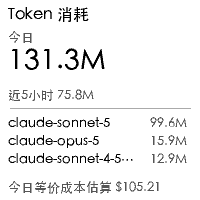
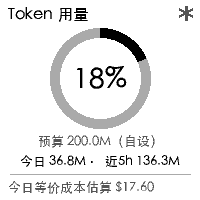
Phase 12: usage page redesign, closing out PLAN-v2.md
Settles the framing question the plan opened with: the user wants a
remaining-quota percentage, but ARCHITECTURE.md §4.2 already established
that number doesn't exist locally — no quota cache anywhere in
.claude.json, only token counts from the local transcripts. The
resolution is a user-set daily budget (config.usage_daily_budget_tokens,
default 200M, editable in settings.html as a millions-denominated
field), with today's percentage computed against it — and critically,
the budget number itself is drawn on screen ("预算 200.0M（自设）") so
nobody mistakes it for an official figure.

renderer/usage.py now draws a ring via PIL's ImageDraw.arc() rather than
a bar: background ring in light gray, progress arc in black from the top
going clockwise. Checked the two boundary cases before calling it done —
0% renders an empty ring without error, and 250% caps the arc's visual
sweep at a full circle while still printing "250%" rather than clamping
the number, so the display never lies about how far over budget the day
actually is even though the ring itself can't show more than full.

The asterisk mark is six line segments radiating from a point — a
generic geometric star, not a character. Claude doesn't have an official
mascot to draw in the first place, only the asterisk-shaped wordmark, so
this is deliberately abstract rather than an invented figure.

This redesign drops the per-model breakdown Phase 5 had. There wasn't
[…]

diff --git a/templates/settings.html b/templates/settings.html
@@ -64,6 +64,11 @@ select{width:100%;box-sizing:border-box;border:1px solid #e3ded5;border-radius:1
       <option value="detail">详情（清单第一只占满整屏）</option>
     </select>
   </div>
+  <div class="field">
+    <label>每日 token 预算（百万，自设，不是官方额度）</label>
+    <input type="number" id="usage_budget_millions" min="1" step="1">
+    <div class="hint">用量页的百分比是"今日消耗 / 这个预算"，不是官方订阅额度——那个数据本地拿不到</div>
+  </div>
   <button class="btn" onclick="saveConfig()">保存</button>
   <div id="msg"></div>
 </div>
@@ -146,6 +151,7 @@ async function loadConfig(){
   document.getElementById('weather_city').value = cfg.weather_city || '';
   document.getElementById('stock_symbols').value = (cfg.stock_symbols || []).join(', ');
   document.getElementById('stocks_view').value = cfg.stocks_view || 'overview';
+  document.getElementById('usage_budget_millions').value = Math.round((cfg.usage_daily_budget_tokens || 200000000) / 1000000);
   newsSources = (cfg.news_sources || []).map(s => ({name: s.name || '', url: s.url || ''}));
   renderNewsSources();
   document.getElementById('auto_push_enabled').checked = !!cfg.auto_push_enabled;
@@ -163,6 +169,7 @@ async function saveConfig(){
     stock_symbols: document.getElementById('stock_symbols').value
       .split(',').map(s => s.trim()).filter(Boolean),
     stocks_view: document.getElementById('stocks_view').value,
+    usage_daily_budget_tokens: Math.max(1, parseInt(document.getElementById('usage_budget_millions').value) || 200) * 1000000,
     news_sources: newsSources.filter(s => s.url.trim()).map(s => ({name: s.name.trim() || s.url.trim(), url: s.url.trim()})),
     auto_push_enabled: document.getElementById('auto_push_enabled').checked,
     auto_push_interval_minutes: Math.max(5, parseInt(document.getElementById('auto_push_interval_minutes').value) || 10),

diff --git a/renderer/usage.py b/renderer/usage.py
@@ -1,12 +1,22 @@
-"""Claude Code token 消耗页渲染。
+"""Claude Code token 消耗页渲染，Phase 12 重设计。
 
-文案刻意不用"额度""已用 x%"这类会被误读为官方订阅配额口径的说法——
-那个数据本地拿不到（见 providers/ccusage.py 顶部说明），这里展示的是
-本地转录统计出的 token 消耗与近似成本估算。
+口径问题（必须先讲清楚，docs/PLAN-v2.md Phase 12）：用户想要"以百分比显示
+还剩多少用量"，但官方订阅额度百分比本地拿不到（providers/ccusage.py 顶部
+已确认）。这里显示的百分比是"今日 token 消耗 / 用户自设预算"，**预算数值
+本身也画在屏幕上**，让人一眼看出这是自设基准，不是官方口径——不做一个看起来
+像官方数据的百分比。
+
+关于吉祥物：Claude 没有官方吉祥物角色，有的是星芒（asterisk）标记。这里画
+的是一个抽象几何星芒符号当视觉锚点，不虚构人物/动物形象。
 """
+import math
+
 from PIL import ImageDraw
 
-from renderer.base import BLACK, DARK_GRAY, WHITE, font, gray, hline, new_canvas
+from renderer.base import BLACK, DARK_GRAY, LIGHT_GRAY, WHITE, font, gray, hline, new_canvas
+
+RING_BBOX = (50, 28, 150, 128)
+RING_WIDTH = 10
 
 
 def _fmt_tokens(n: int) -> str:
@@ -17,30 +27,53 @@ def _fmt_tokens(n: int) -> str:
     return str(n)
 
 
-def render(usage: dict):
+def _draw_ring(draw: ImageDraw.ImageDraw, pct: float):
+    draw.arc(RING_BBOX, 0, 360, fill=gray(LIGHT_GRAY), width=RING_WIDTH)
+    sweep = max(0.0, min(pct, 1.0)) * 360
+    if sweep > 0:
+        draw.arc(RING_BBOX, -90, -90 + sweep, fill=gray(BLACK), width=RING_WIDTH)
+
+
+def _draw_asterisk_mark(draw: ImageDraw.ImageDraw, cx: float, cy: float, r: float):
+    """抽象星芒符号（视觉锚点），不是具体角色形象——见模块顶部说明。"""
+    for i in range(6):
+        ang = i * math.pi / 3 - math.pi / 2
+        x0, y0 = cx - math.cos(ang) * r, cy - math.sin(ang) * r
+        x1, y1 = cx + math.cos(ang) * r, cy + math.sin(ang) * r
+        draw.line([(x0, y0), (x1, y1)], fill=gray(DARK_GRAY), width=2)
+
+
+def render(usage: dict, daily_budget: int):
     img = new_canvas(bg=WHITE)
     draw = ImageDraw.Draw(img)
 
-    draw.text((8, 6), "Token 消耗", font=font(16), fill=gray(BLACK))
+    draw.text((8, 6), "Token 用量", font=font(16), fill=gray(BLACK))
+    _draw_asterisk_mark(draw, 186, 13, 7)
 
-    draw.text((8, 30), "今日", font=font(13), fill=gray(DARK_GRAY))
-    draw.text((8, 46), _fmt_tokens(usage["today_tokens"]), font=font(28), fill=gray(BLACK))
+    budget = daily_budget or 1
+    pct = usage["today_tokens"] / budget
+    _draw_ring(draw, pct)
 
-    draw.text((8, 88), f"近5小时 {_fmt_tokens(usage['window_5h_tokens'])}", font=font(13), fill=gray(DARK_GRAY))
+    pct_label = f"{pct*100:.0f}%"
+    f_pct = font(28)
+    bbox = draw.textbbox((0, 0), pct_label, font=f_pct)
+    tw, th = bbox[2] - bbox[0], bbox[3] - bbox[1]
+    cx, cy = (RING_BBOX[0] + RING_BBOX[2]) / 2, (RING_BBOX[1] + RING_BBOX[3]) / 2
+    draw.text((cx - tw / 2, cy - th / 2 - bbox[1]), pct_label, font=f_pct, fill=gray(BLACK))
 
-    hline(draw, 108)
+    budget_label = f"预算 {_fmt_tokens(daily_budget)}（自设）"
+    f13 = font(13)
+    bl_bbox = draw.textbbox((0, 0), budget_label, font=f13)
+    draw.text((100 - (bl_bbox[2] - bl_bbox[0]) / 2, 134), budget_label, font=f13, fill=gray(DARK_GRAY))
 
-    y = 116
-    by_model = sorted(usage["by_model"].items(), key=lambda kv: -kv[1])
-    for model, tok in by_model[:3]:
-        label = model if len(model) <= 18 else model[:17] + "…"
-        draw.text((8, y), label, font=font(13), fill=gray(BLACK))
-        draw.text((150, y), _fmt_tokens(tok), font=font(13), fill=gray(DARK_GRAY))
-        y += 18
+    detail = f"今日 {_fmt_tokens(usage['today_tokens'])} · 近5h {_fmt_tokens(usage['window_5h_tokens'])}"
+    d_bbox = draw.textbbox((0, 0), detail, font=f13)
+    draw.text((100 - (d_bbox[2] - d_bbox[0]) / 2, 154), detail, font=f13, fill=gray(BLACK))
 
+    hline(draw, 174)
     draw.text(
         (8, 180), f"今日等价成本估算 ${usage['estimated_cost_usd']:.2f}",
-        font=font(13), fill=gray(DARK_GRAY),
+        font=f13, fill=gray(DARK_GRAY),
     )
 
     return img

diff --git a/config.py b/config.py
@@ -17,9 +17,10 @@ DEFAULTS = {
     "stocks_view": "overview",  # "overview"(多只概览) 或 "detail"(单只详情，取清单第一只)
     # Phase 11：默认清单，每一条都实测过是活的、有当日/近日条目
     # （教训：新浪滚动新闻 RSS 早已废弃过，见 docs/PLAN-v2.md Phase 11）。
-    # 头条放最后：抓取逻辑是"排在前面的源优先填满显示条数"，头条热榜
-    # 条目多、几乎总能单独填满全部名额，放第一会让 solidot/少数派配了也
-    # 白配、永远露不出来——放最后当兜底，缺口才轮到它补。
+    # 抓取是轮流取（round-robin），顺序决定的是"每一轮谁先取、余数给谁"，
+    # 不是"谁能把名额占满"（早期版本是顺序填满，头条/solidot 随便一个
+    # 排第一都会把另外两个源直接挤没，已改掉，见 providers/news.py）。
+    # 头条放最后，把余数留给它兜底，前两个更有内容深度的源优先露出。
     "news_sources": [
         {"name": "奇客Solidot", "url": "https://www.solidot.org/index.rss"},
         {"name": "少数派", "url": "https://sspai.com/feed"},
@@ -32,6 +33,10 @@ DEFAULTS = {
     "auto_push_interval_minutes": 10,
     "auto_push_pages": ["weather", "stocks", "news", "usage"],  # 不含摇卦，见 PLAN-v2.md Phase 7
     "_auto_push_last_page": None,  # 内部轮换状态，不暴露给设置页
+    # Phase 12：用户自设的每日 token 预算，不是官方额度（本地拿不到，
+    # 见 ARCHITECTURE.md §4.2）。渲染时必须把这个数字本身也画出来，
+    # 让人一眼看出百分比是相对这个自设基准算的，不是官方口径。
+    "usage_daily_budget_tokens": 200_000_000,
 }
 
 

diff --git a/app.py b/app.py
@@ -38,7 +38,7 @@ PAGES = {
     "weather": ("天气", lambda cfg: weather.render(weather_provider.fetch(cfg["weather_city"]))),
     "stocks": ("行情", _render_stocks),
     "news": ("要闻", lambda cfg: news.render(news_provider.fetch(cfg.get("news_sources")))),
-    "usage": ("用量", lambda cfg: usage.render(ccusage.summarize())),
+    "usage": ("用量", lambda cfg: usage.render(ccusage.summarize(), cfg.get("usage_daily_budget_tokens"))),
     "qimen": ("奇门遁甲", lambda cfg: qimen.render(qimen_provider.cast())),
 }
 
@@ -85,7 +85,7 @@ def api_config():
     body = request.get_json(force=True, silent=True) or {}
     allowed = {
         "device_ip", "device_mac", "weather_city", "stock_symbols", "stocks_view", "news_sources", "enabled_pages",
-        "auto_push_enabled", "auto_push_interval_minutes", "auto_push_pages",
+        "auto_push_enabled", "auto_push_interval_minutes", "auto_push_pages", "usage_daily_budget_tokens",
     }
     updates = {k: v for k, v in body.items() if k in allowed}
     cfg = config.update(**updates)

diff --git a/README.md b/README.md
@@ -41,7 +41,7 @@ python3 app.py
 | 🌤 **天气** | 数据源 [wttr.in](https://wttr.in)，城市在设置页里改。图标+温度并排，另有体感温度和降水概率。图标是纯 PIL 几何图形（不用外部图标字体，位图在 200×200 下容易糊），覆盖晴/多云/阴/雨/雪/雾/雷 7 类 |
 | 📈 **行情** | 数据源 Yahoo Finance 公开接口，股票清单在设置页里改。两种版式：概览（多只，各配一条分时线）或详情（清单第一只占满整屏，含成交量/52周高低），设置页切换 |
 | 📰 **要闻** | 多个 RSS/Atom 源合并（round-robin，不会被单一源占满），设置页可增删排序，任意公开 RSS 2.0/Atom 地址都支持，另有今日头条热榜作为特殊源 |
-| 📊 **Token 用量** | 解析本机 Claude Code 的本地转录文件，展示今日 token 消耗、近 5 小时窗口、按模型拆分、近似成本估算。**这不是官方订阅额度百分比**——那个数据本地拿不到，这里给的是本地转录统计出的用量，别混着看 |
+| 📊 **Token 用量** | 解析本机 Claude Code 的本地转录文件，环形进度显示"今日消耗/自设预算"百分比（预算数值本身画在屏幕上，标注"自设"）、近 5 小时窗口、近似成本估算。**这不是官方订阅额度百分比**——那个数据本地拿不到，百分比是相对你在设置页自己填的预算算的 |
 | 🔯 **奇门遁甲** | 按当前时间起盘（节气定局/阴阳遁/值符值使/三盘，复用同一作者 mingli-skill 项目的排盘引擎），3×3 九宫格显示门/星/干支，粗框标出值符宫 |
 
 摇卦是"推了就看"的一次性动作；天气/行情/新闻/用量四页支持先"预览"（只调用转换接口生成预览图，**不会**真的推给设备）再决定要不要"推送"。
@@ -67,7 +67,9 @@ python3 app.py
 
 - 设备 IP / MAC
 - 天气城市（默认深圳）
-- 股票清单（默认 `AAPL`、`NVDA`，逗号分隔）
+- 股票清单（默认 `AAPL`、`NVDA`，逗号分隔）+ 行情版式（概览/详情）
+- 要闻源：增删、用上下箭头调整优先级，支持任意 RSS 2.0/Atom 地址
+- 每日 token 预算（自设，用于用量页百分比，不是官方额度）
 - 自动推送：布防开关、推送周期、参与轮换的页面
 
 改完点保存即可，不需要重启服务。
@@ -117,7 +119,9 @@ pocket-prophet-dashboard/
 - ✅ Phase 9 天气图标
 - ✅ Phase 10 行情增强
 - ✅ Phase 11 要闻自定义源
-- 🔜 Phase 12（`docs/PLAN-v2.md`）：用量页重设计
+- ✅ Phase 12 用量页重设计
+
+**至此 `docs/PLAN-v2.md` 的五大板块深化全部完成。**
 
 ## 定位：扩展，不是破解
 

diff --git a/docs/PLAN-v2.md b/docs/PLAN-v2.md
@@ -4,7 +4,7 @@
 >
 > 所有"已确认事实"的实测依据在 `docs/ARCHITECTURE.md`，不在此重复。
 
-> **2026-07-30 状态更新**：Phase 6-11 已完成并推送。Phase 9（天气图标）：7 种极简几何图标逐个验证过轮廓清晰，踩过"多云"糊成两个圆圈、"雷"闪电黑对黑不可见两个坑，都已修。Phase 10（行情增强）：成交量/52周高低已加；财报日期接口需要认证（401），按计划的但书跳过；新增单只详情版式。**Phase 11（要闻自定义源）**：新写 `providers/rss.py` 用标准库解析 RSS 2.0/Atom，四个候选源（少数派/V2EX/阮一峰/solidot）逐个实测过是活的、有当日条目；默认清单定为 solidot+少数派+头条。**踩了一个新坑并修了**：合并多源最初按"清单顺序依次填满"实现，实测发现只要排第一的源自己条目数够（头条、solidot 都轻松≥8条），会让后面配置的源一条都露不出来——"多源"这个功能形同虚设，改成轮流取（round-robin）才让清单顺序仍然决定优先级、但不会让任何一个源独占全部名额。设置页的"拖动排序"用上下箭头按钮实现，不是真正的拖拽（vanilla JS 写可靠拖拽排序成本明显更高，效果等价）。Phase 12 待做。
+> **2026-07-30 状态更新**：Phase 6-12 全部完成并推送，`docs/PLAN-v2.md` 五大板块深化到此告一段落。Phase 9（天气图标）：7 种极简几何图标逐个验证过轮廓清晰，踩过"多云"糊成两个圆圈、"雷"闪电黑对黑不可见两个坑，都已修。Phase 10（行情增强）：成交量/52周高低已加；财报日期接口需要认证（401），按计划的但书跳过；新增单只详情版式。Phase 11（要闻自定义源）：新写 `providers/rss.py` 解析 RSS 2.0/Atom，默认清单 solidot+少数派+头条全部实测过是活的；踩坑并修复——合并多源最初按顺序依次填满会让排第一的源独占全部名额，改成轮流取（round-robin）。**Phase 12（用量页重设计）**：口径讲清楚——官方额度百分比本地拿不到，页面显示的是"今日消耗/用户自设预算"，预算数值本身画在屏幕上（"预算 200.0M（自设）"字样），不伪装成官方数据；环形进度用 PIL 的 `arc()` 画，超 100% 时环形封顶成整圈但数字照实显示（如 250%），不做数字截断；星芒符号是抽象几何图形（6条辐射线），不是虚构的吉祥物角色。由此完全放弃了 Phase 5 原有的按模型拆分展示（环形进度占掉了那部分空间），这是本次重设计的直接取舍，不是遗漏。
 
 ---
 
